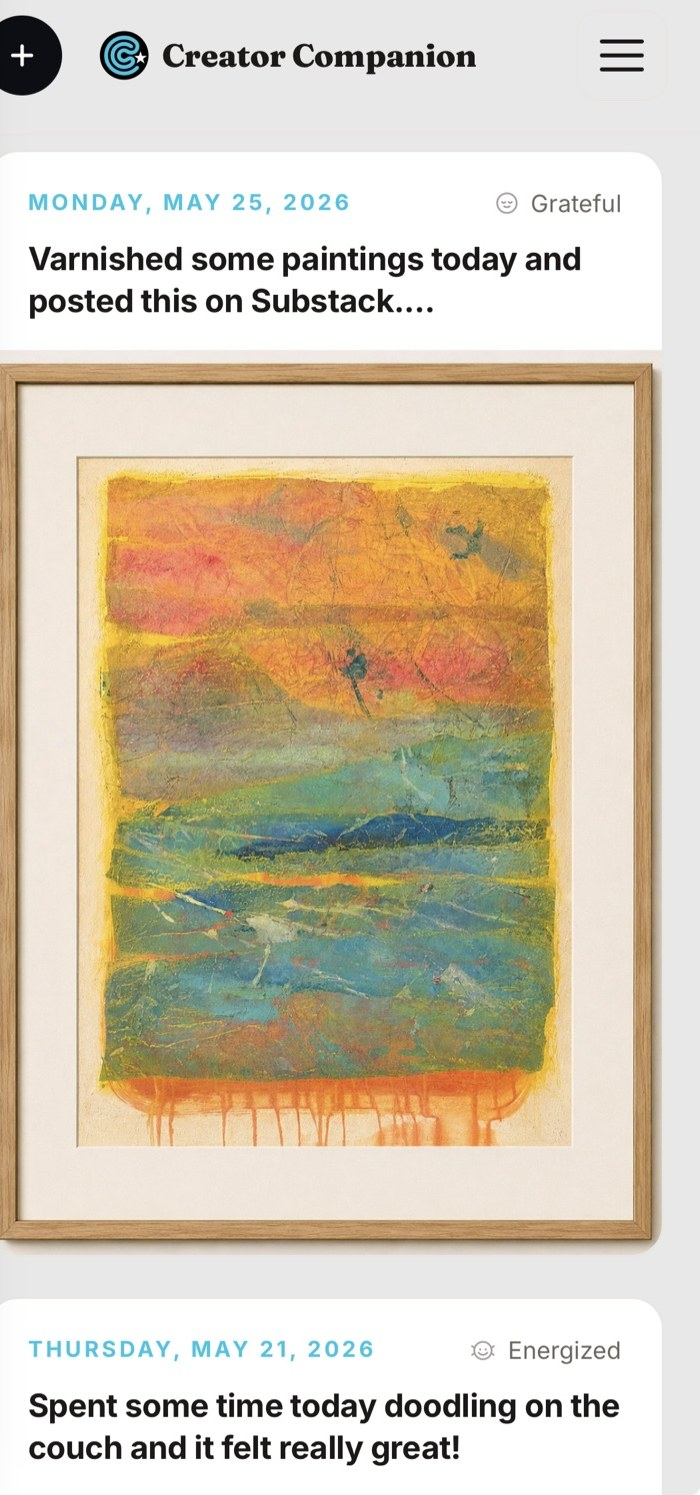
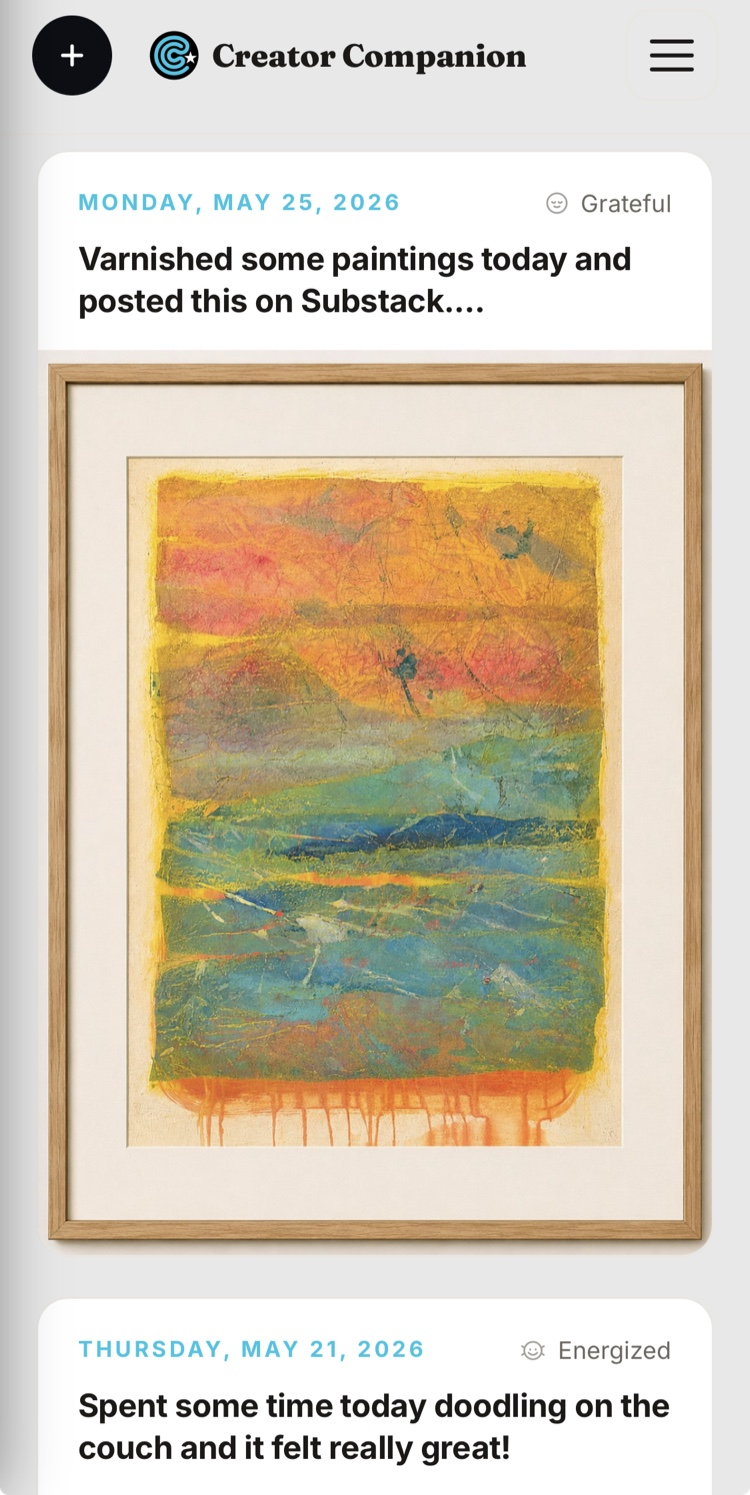
Marketing preview: restore uncropped image + extend iOS safe-area shadow
The "shadow on the left" is part of the actual iOS rendering (system
safe-area gradient), not an artifact. Restored the uncropped 750-wide
screenshot and applied the same left-anchored horizontal gradient
(#bababa → #e8e8e8 over the leftmost 11%) to both the .mock-phone
parent and the .mock-phone__screen--img screen background, so the
shadow flows continuously down the entire left side instead of
abruptly meeting a uniform grey above the image.

Changed region(s): [[0.0, 0.0, 0.9, 1.0], [0.9, 0.2462, 0.96, 0.8308]]

diff --git a/marketing/styles.css b/marketing/styles.css
@@ -525,16 +525,17 @@ a:hover { text-decoration: underline; }
   padding-bottom: 0;
 }
 /* Variant: full-bleed image fills the screen (no .mapp-* children).
-   Background matches the app's body grey so any gap above/below
-   the image blends with the screenshot's own background. The
-   :has() rule below propagates the grey up to the .mock-phone
-   parent so the gutters around the notch are grey too (otherwise
-   the dark phone-frame fill shows through next to the notch). */
+   The source screenshot has the iOS safe-area shadow baked into its
+   left edge (a horizontal gradient from #bababa at x=0 fading to
+   body-grey #e8e8e8 by ~11% of width). The screen + parent .mock-phone
+   bg uses the SAME left-anchored horizontal gradient so the shadow
+   flows continuously down the entire left side, including the area
+   above/below the image and around the notch. */
 .mock-phone:has(.mock-phone__screen--img) {
-  background: #e8e9eb;
+  background: linear-gradient(to right, #bababa 0%, #e8e8e8 11%, #e8e8e8 100%);
 }
 .mock-phone__screen--img {
-  background: #e8e9eb;
+  background: linear-gradient(to right, #bababa 0%, #e8e8e8 11%, #e8e8e8 100%);
   min-height: 0;
   padding: 0;
 }